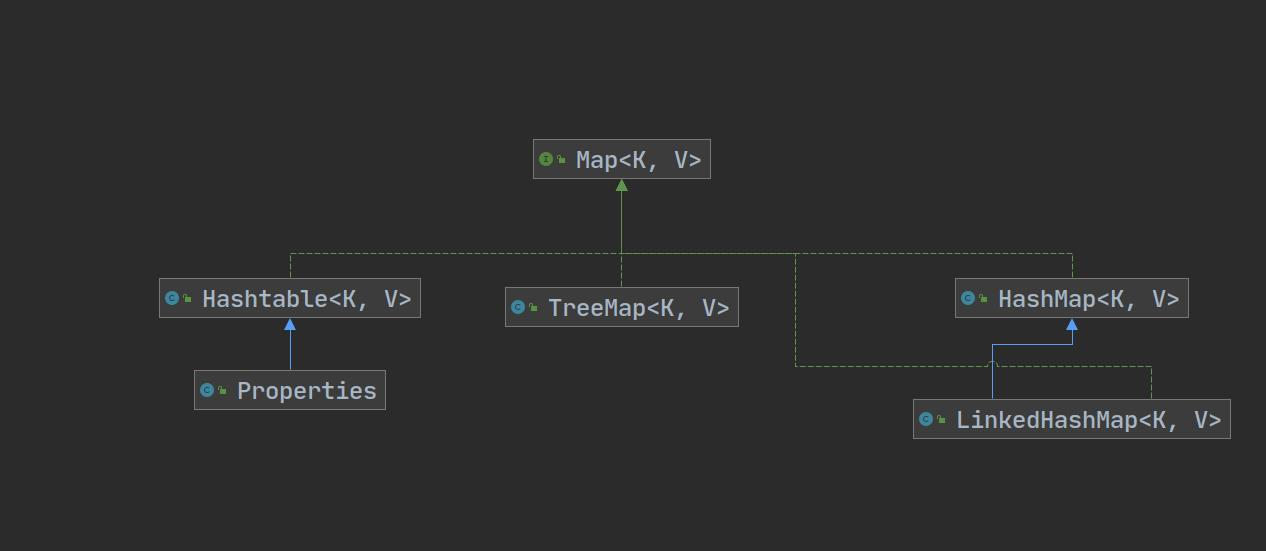
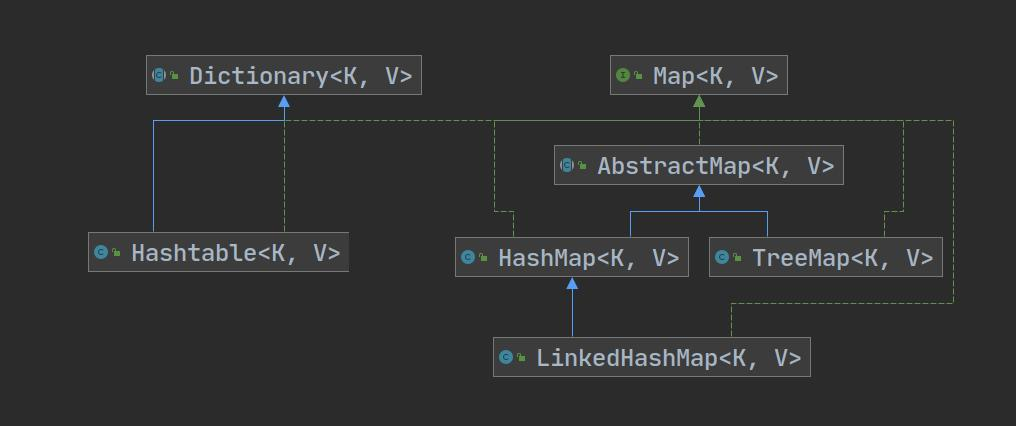
add JVM,update collection and net

diff --git a/javaSE/java网络编程.md b/javaSE/java网络编程.md
@@ -1,116 +1,31 @@
-# java网络编程
+# 网络编程
 
-## TCP编程
+## InetAddress
 
-### 服务器端
-
-- Java标准库提供了`ServerSocket`来实现对指定IP和指定端口的监听
-
-- 如果`ServerSocket`监听成功，我们就使用一个无限循环来处理客户端的连接：
-
-  ```java
-  for (;;) {
-      Socket sock = ss.accept();
-      Thread t = new Handler(sock);
-      t.start();
-  }
-  ```
-
-- 客户端程序通过：
-
-  ```
-  Socket sock = new Socket("localhost", 6666);
-  ```
-
-  连接到服务器端，注意上述代码的服务器地址是`"localhost"`，表示本机地址，端口号是`6666`。如果连接成功，将返回一个`Socket`实例，用于后续通信。
-
-
-
-### Socket流
-
-当Socket连接创建成功后，无论是服务器端，还是客户端，我们都使用`Socket`实例进行网络通信。因为TCP是一种基于流的协议，因此，Java标准库使用`InputStream`和`OutputStream`来封装Socket的数据流，这样我们使用Socket的流，和普通IO流类似：
-
-```
-// 用于读取网络数据:
-InputStream in = sock.getInputStream();
-// 用于写入网络数据:
-OutputStream out = sock.getOutputStream();
-```
-
-最后我们重点来看看，为什么写入网络数据时，要调用`flush()`方法。
-
-如果不调用`flush()`，我们很可能会发现，客户端和服务器都收不到数据，这并不是Java标准库的设计问题，而是我们以流的形式写入数据的时候，并不是一写入就立刻发送到网络，而是先写入内存缓冲区，直到缓冲区满了以后，才会一次性真正发送到网络，这样设计的目的是为了提高传输效率。如果缓冲区的数据很少，而我们又想强制把这些数据发送到网络，就必须调用`flush()`强制把缓冲区数据发送出去。
-
-
+- getLocalHost()    获取本机的InetAddress对象
+- getByName()    根据指定主机名/域名获取InetAddress对象
+- getHostAddress()    通过InetAddress对象获得对应ip地址
+- getHostName()    通过InetAddress对象获得对应域名/主机名
 
 ---
 
-## UDP编程
+## Socket(套接字)
 
-### 服务器端
-
-- 在服务器端，使用UDP也需要监听指定的端口。Java提供了`DatagramSocket`来实现这个功能
-
-- 要接收一个UDP数据包，需要准备一个`byte[]`缓冲区，并通过`DatagramPacket`实现接收：
-
-  ```java
-  byte[] buffer = new byte[1024];
-  DatagramPacket packet = new DatagramPacket(buffer, buffer.length);
-  ds.receive(packet);
-  ```
-
-- 当服务器收到一个DatagramPacket后，通常必须立刻回复一个或多个UDP包，因为客户端地址在DatagramPacket中，每次收到的DatagramPacket可能是不同的客户端，如果不回复，客户端就收不到任何UDP包。
-
-  发送UDP包也是通过`DatagramPacket`实现的，发送代码非常简单：
-
-  ```java
-  byte[] data = ...
-  packet.setData(data);
-  ds.send(packet);
-  ```
+1. 通信的两端都要有Socket，是两台机器通信的端点
+2. 网络通信就是Socket间的通信
+3. Socket允许把网络连接当成一个流，数据在两个Socker之间通过IO传输
 
 
 
-### 客户端
-
-- 客户端打开一个`DatagramSocket`使用以下代码：
-
-  ```java
-  DatagramSocket ds = new DatagramSocket();
-  ds.setSoTimeout(1000);
-  ds.connect(InetAddress.getByName("localhost"), 6666);
-  ```
-
-- 这个`connect()`方法不是真连接，它是为了在客户端的`DatagramSocket`实例中保存服务器端的IP和端口号，确保这个`DatagramSocket`实例只能往指定的地址和端口发送UDP包，不能往其他地址和端口发送。这么做不是UDP的限制，而是Java内置了安全检查。
+- 基于Socket有TCP编程和UDP编程
+- 网络编程发送信息需要结束标记，调用方法socket.shutdownOutput()
+- 结束标记也可以是writer.newLine()（字符流），不过要求对方使用readLine()接收
+- 使用字符流需要flush()才能写入
 
 
 
----
+### ServerSocket
 
-## HTTP编程(HyperText Transfer Protocol)
-
-- 基于TCP协议之上的一种请求-响应协议
-- 服务器总使用`80`和`443`端口
-
-
-
-### HTTP请求格式
-
-- 由HTTP Header和HTTP Body两部分构成
-- 第一行总是`请求方法 路径 HTTP版本`，例如，`GET / HTTP/1.1`表示使用`GET`请求，路径是`/`，版本是`HTTP/1.1`。
-- 后续的每一行都是固定的`Header: Value`格式，我们称为HTTP Header，服务器依靠某些特定的Header来识别客户端请求，例如：
-  - Host：表示请求的域名，因为一台服务器上可能有多个网站，因此有必要依靠Host来识别请求是发给哪个网站的；
-  - User-Agent：表示客户端自身标识信息，不同的浏览器有不同的标识，服务器依靠User-Agent判断客户端类型是IE还是Chrome，是Firefox还是一个Python爬虫；
-  - Accept：表示客户端能处理的HTTP响应格式，`*/*`表示任意格式，`text/*`表示任意文本，`image/png`表示PNG格式的图片；
-  - Accept-Language：表示客户端接收的语言，多种语言按优先级排序，服务器依靠该字段给用户返回特定语言的网页版本。
-
-### GET请求
-
-- 只有HTTP Header，没有HTTP Body
-- `GET`请求的参数必须附加在URL上，并以URLEncode方式编码，因为URL的长度限制，`GET`请求的参数不能太多
-
-### POST请求
-
-- 既有HTTP Header，也有HTTP Body
-- `POST`请求的参数必须放到Body中，`POST`请求的参数不一定是URL编码，可以按任意格式编码，只需要在`Content-Type`中正确设置即可。
+- 构造器接收一个端口，该端口没有被占用
+- 这个类可以通过`accept()`方法返回多个Socket
 

diff --git a/javaSE/java集合.md b/javaSE/java集合.md
@@ -368,6 +368,8 @@ int newCapacity = oldCapacity+((capacityIncrement > 0)?capacityIncrement:oldCapa
 
 ### 1.HashMap类
 
+- 继承自AbstractMap类
+
 - HashMap是线程不安全的
 - 索引index = (table.length-1) & hashCode
 - table表内数据存储的类型是HashMap$Node
@@ -429,6 +431,8 @@ int newCapacity = oldCapacity+((capacityIncrement > 0)?capacityIncrement:oldCapa
 
 
 ### 2.Hashtable类
+
+- 继承自Dictionary类
 
 - 存放的元素是K-V
 - 存放的键和值都不能是null

diff --git a/JVM/JVM命令.md b/JVM/JVM命令.md
@@ -1,0 +1,13 @@
+1. jps：查看本机java进程信息。
+
+2. jstack：打印线程的**栈**信息，制作线程dump文件。
+
+3. jmap：打印内存映射，制作**堆**dump文件
+
+4. jstat：性能监控工具
+
+5. jhat：内存分析工具
+
+6. jconsole：简易的可视化控制台
+
+7. jvisualvm：功能强大的控制台
